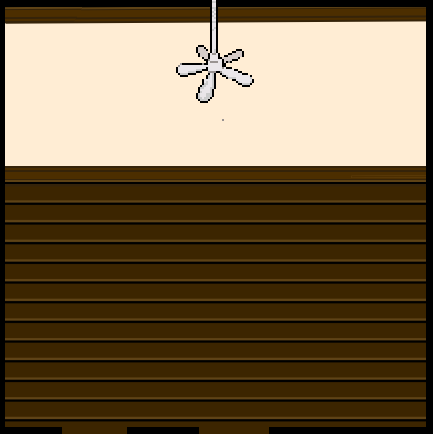
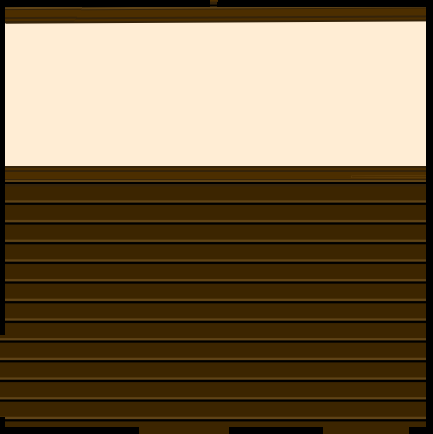
5

diff --git a/index/index.js b/index/index.js
@@ -10,6 +10,13 @@ const switch_on_sound = new Audio("index/index_img/switch_sound_on.mp3");
 switch_on_sound.preload = "auto";
 const switch_off_sound = new Audio("index/index_img/switch_sound_off.mp3")
 switch_off_sound.preload = "auto";
+const curtain_open = document.getElementById('curtain_open')
+const curtain_closed = document.getElementById('curtain_closed')
+const fan_switch_on = document.getElementById('fan_switch_on')
+const fan_switch_off = document.getElementById('fan_switch_off')
+const fan_1 = document.getElementById("fan");
+const fan_2 = document.getElementById("fan_spin");
+
 
 switch_off.addEventListener('click', () => { //light turn on
     switch_on_sound.play();
@@ -91,3 +98,52 @@ mouse.addEventListener("click", () => {
         window.open("https://www.google.com", "_blank");
     }
 })
+
+curtain_open.addEventListener('click', () => {
+    curtain_closed.style.display = "block";
+    curtain_open.style.display = "none";
+})
+
+curtain_closed.addEventListener('click', () => {
+    curtain_closed.style.display = "none";
+    curtain_open.style.display = "block";
+})
+let fanInterval = null;
+fan_switch_off.addEventListener('click', () => {
+    switch_on_sound.play();
+
+    fan_switch_on.style.display = "block";
+    fan_switch_off.style.display = "none";
+
+    let showingFirst = true;
+
+        if (!fanInterval) { //start only if its null
+        fanInterval = setInterval(() => { // the id of the currently running interval stored here.
+            if (showingFirst) {
+                fan_1.style.display = "none";
+                fan_2.style.display = "block";
+            } else {
+                fan_1.style.display = "block";
+                fan_2.style.display = "none";
+            }
+    showingFirst = !showingFirst; // flips true/false
+}, 120);
+}
+});
+
+fan_switch_on.addEventListener('click', () => {
+    switch_off_sound.play();
+    fan_switch_off.style.display = "block";
+    fan_switch_on.style.display = "none";
+
+    clearInterval(fanInterval); //stop running interval and dont call it anymore
+    fanInterval = null; //reset so it can be started again
+
+    // Reset to default frame
+    fan_1.style.display = "block";
+    fan_2.style.display = "none";
+})
+
+
+
+

diff --git a/index.html b/index.html
@@ -31,19 +31,27 @@
             <a href="https://www.google.com" target="_blank">
                 <img id="closet_side" src="index/index_img/closet_side.png" class="objects">
             </a>
-            <!--Laptop link-->
+            <!--Laptop-->
             <img id="laptop" src="index/index_img/laptop.png">
             <img id="laptop_on" src="index/index_img/laptop_on.png">
             <img id="laptop_on_dark" src="index/index_img/laptop_on_dark.png">
-
+            <!--Mouse_link-->
             <div id="mouse_link">
                 <img id="mouse" src="index/index_img/mouse.png">
-                <!--later add when laptop is clicked then open stuff-->
             </div>
+            <!--Window-->
+            <img id="curtain_open" src="index/index_img/Curtain_open.PNG">
+            <img id="curtain_closed" src="index/index_img/Curtain_closed.PNG">
+            <!--Fan-->
+            <img id="fan_spin" src="index/index_img/fan_spin1.PNG">
+            <img id="fan" src="index/index_img/fan_spin2.PNG">
+            <img id="fan_switch_on" src="index/index_img/switch_on.png" class="switches">
+            <img id="fan_switch_off" src="index/index_img/switch_off.png" class="switches">
+
             <!--Dark mode-->
             <div id="dark_mode"></div>
-                <img id="switch_on" src="index/index_img/switch_on.png">
-                <img id="switch_off" src="index/index_img/switch_off.png">
+                <img id="switch_on" src="index/index_img/switch_on.png" class="switches">
+                <img id="switch_off" src="index/index_img/switch_off.png" class="switches">
                 <div id="laptop_light"></div>
             </div>
         </div>

diff --git a/index/index.css b/index/index.css
@@ -130,19 +130,20 @@ body{
 
 #switch_on {
     display: none;
-    position: absolute;
-    height: 16px;
     right: 18px;
     top: 110px;
 }
 
 #switch_off {
     display: block;
-    position: absolute;
     right: 18px;
     top: 110px;
-    height: 16px;
 
+}
+
+.switches {
+    position: absolute;
+    height: 16px;
 }
 
 #laptop_light {
@@ -157,3 +158,37 @@ body{
     z-index: 12;
 }
 
+#curtain_open {
+    position: absolute;
+    left: 80px;
+    top: 55px;
+}
+
+#curtain_closed {
+    display: none;
+    position: absolute;
+    left: 80px;
+    top: 55px;
+}
+
+#fan {
+    
+    position: absolute;
+    left: 210px;
+}
+
+#fan_spin {
+    display: none;
+    position: absolute;
+    left: 212.14px;
+}
+
+#fan_switch_off {
+    right: 35px;
+    top: 110px;
+}
+
+#fan_switch_on {
+    right: 35px;
+    top: 110px;
+}
